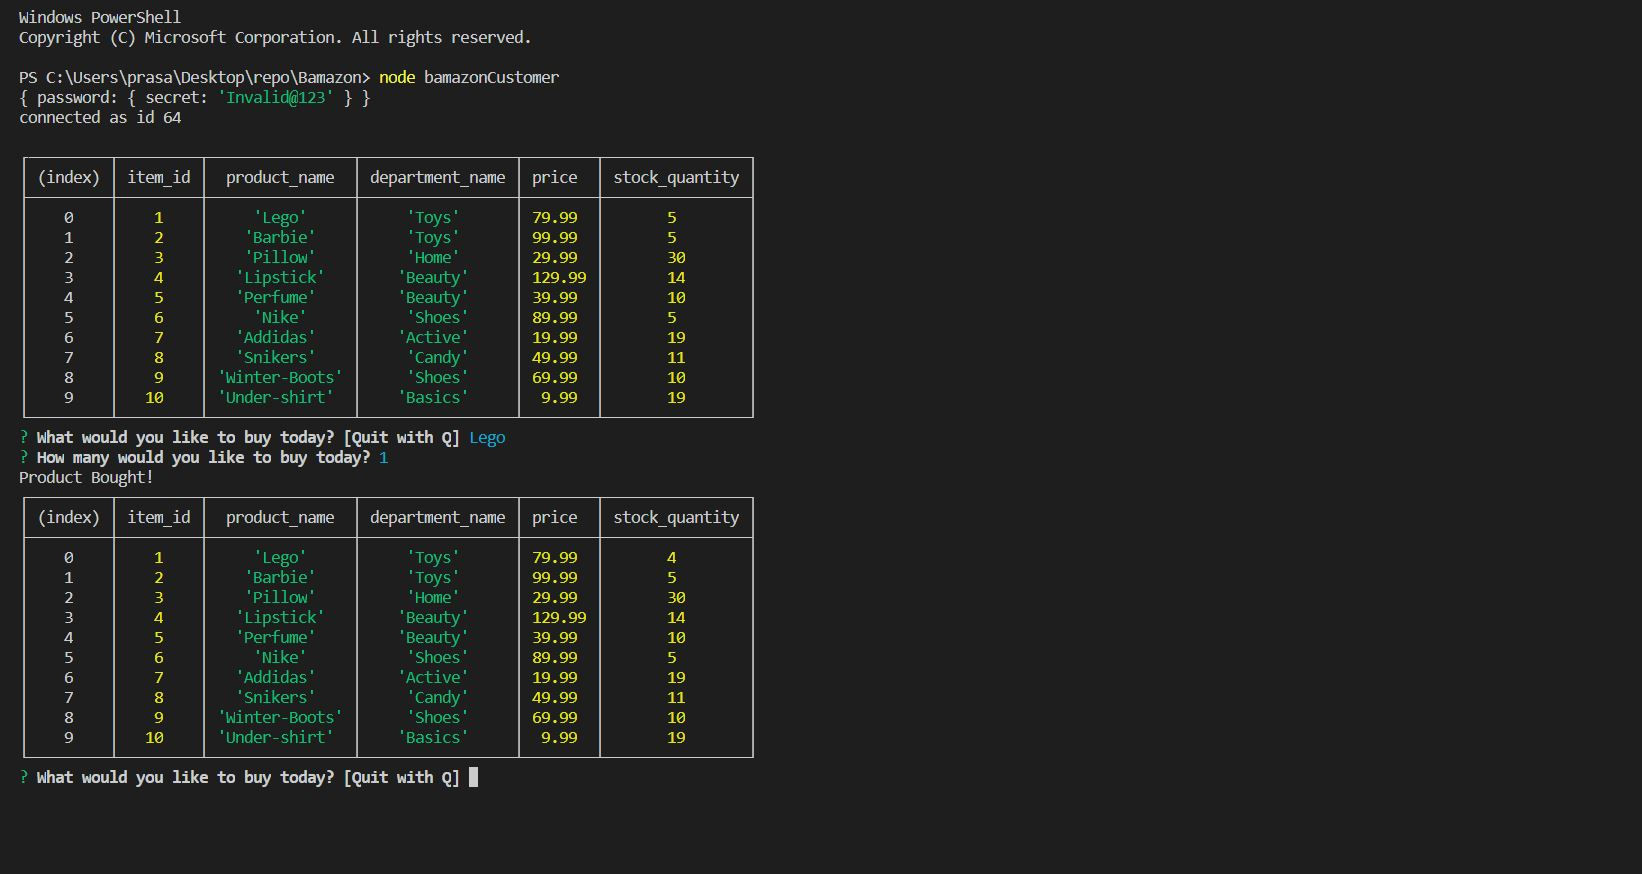
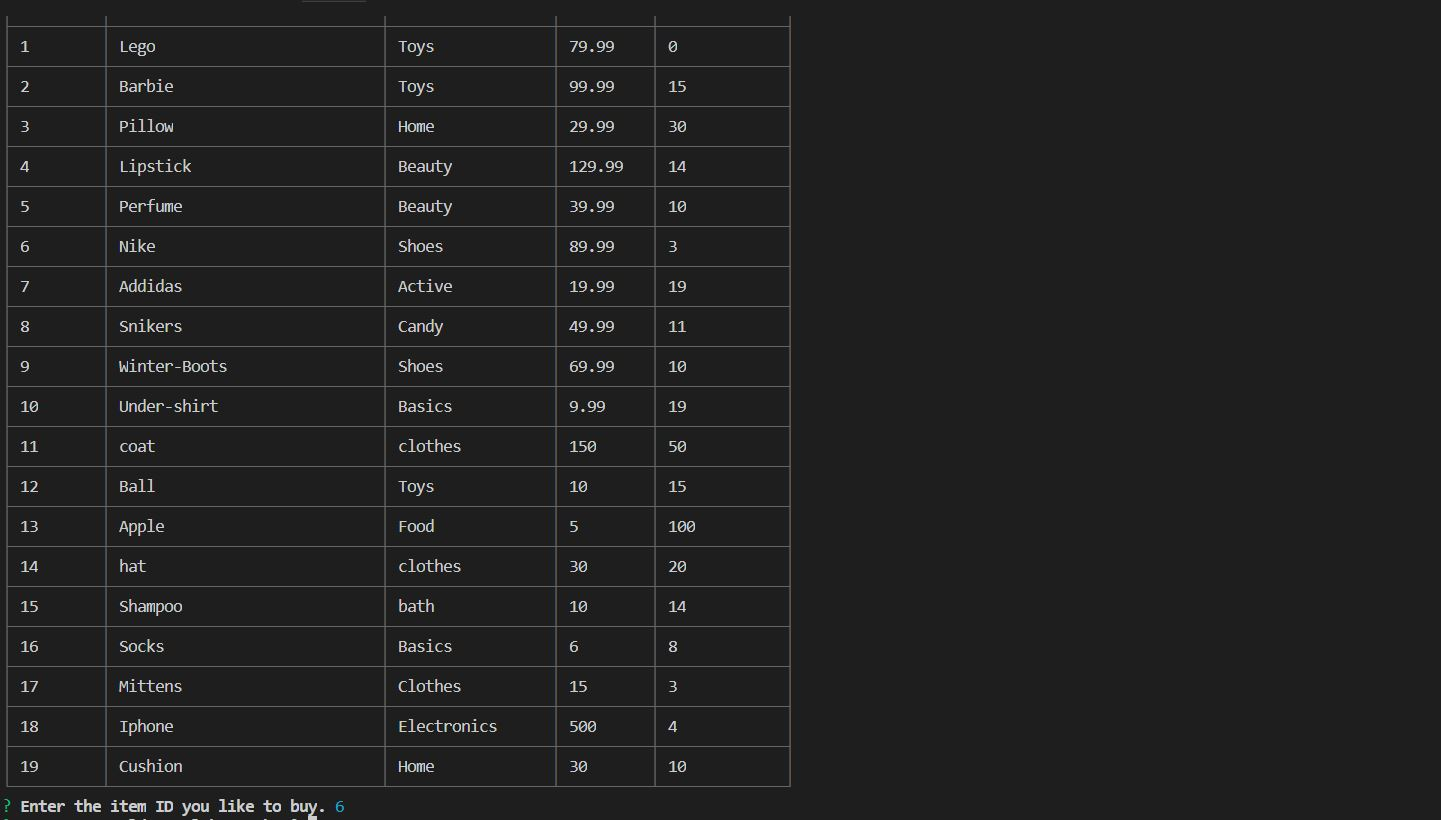
Updating bamazonCustomer.js and screenshots

Changed region(s): [[0.0, 0.0, 0.4997, 0.9451], [0.0, 0.9756, 0.2498, 1.0], [0.3747, 0.0305, 0.4684, 0.061]]

diff --git a/bamazonCustomer.js b/bamazonCustomer.js
@@ -1,105 +1,107 @@
-var mysql = require("mysql"); // pop quiz // schema // seeds sql required
+var mysql = require("mysql");
 var inquirer = require("inquirer");
-var keys = require("./keys.js");
-console.log(keys);
+// var keys = require("./keys.js");
+// console.log(keys);
+var table = require("cli-table");
 
 var connection = mysql.createConnection({
   host: "localhost",
-
-  // Your port; if not 3306
   port: 3306,
-
-  // Your username
   user: "root",
-
-  // Your password
-  password: keys.password.secret,
+  password: "Invalid@123",
   database: "bamazon_db"
 });
 
-connection.connect(function(err) {
-  if (err) throw err;
-  console.log("connected as id " + connection.threadId + "\n");
-  makeTable();
-});
+displayshoplist();
 
-var makeTable = function() {
-  connection.query("SELECT * FROM products", function(err, res) {
-    console.table(res);
-    // if (err) throw err;
-    // for (var i = 0; i < res.length; i++) {
-    //   console.log(
-    //     // res[i].item_id +
-    //     //   " ||" +
-    //     //   res[i].product_name +
-    //     //   " ||" +
-    //     //   res[i].department_name +
-    //     //   " ||" +
-    //     //   res[i].price +
-    //     //   " ||" +
-    //     //   res[i].stock_quantity +
-    //     //   "\n"
-    //   );
-    // }
-    promptCustomer(res);
+function displayshoplist() {
+  connection.query("SELECT * FROM products", function(error, response) {
+    if (error) throw error;
+    var displayTable = new table({
+      head: ["Item ID", "Product Name", "Department", "Price", "Stock"],
+      colWidths: [10, 30, 18, 10, 14]
+    });
+    for (i = 0; i < response.length; i++) {
+      displayTable.push([
+        response[i].item_id,
+        response[i].product_name,
+        response[i].department_name,
+        response[i].price,
+        response[i].stock_quantity
+      ]);
+    }
+    console.log(displayTable.toString());
+    promptCustomer();
   });
-};
-
-var promptCustomer = function(res) {
+}
+function promptCustomer() {
   inquirer
     .prompt([
       {
-        type: "input", // specific things , inquirer docs
-        name: "choice", // anything
-        message: "What would you like to buy today? [Quit with Q]"
+        name: "ID",
+        type: "input",
+        message: "Enter the item ID you like to buy."
+      },
+      {
+        name: "Quantity",
+        type: "input",
+        message: "How many would you like to buy?"
       }
     ])
+    .then(function(answers) {
+      var quantityWanted = answers.Quantity;
+      var idWanted = answers.ID;
+      purchaseShopList(idWanted, quantityWanted);
+    });
+}
+function purchaseShopList(ID, quantityNeeded) {
+  connection.query("SELECT * FROM products WHERE item_id = " + ID, function(
+    error,
+    response
+  ) {
+    if (error) throw error;
+    if (quantityNeeded <= response[0].stock_quantity) {
+      var totalCost = response[0].price * quantityNeeded;
+      console.log("Congratulations! your order is on the way!");
+      console.log(
+        "Your total cost for " +
+          quantityNeeded +
+          " " +
+          response[0].product_name +
+          " is " +
+          totalCost +
+          ". Thank you for shopping."
+      );
+      connection.query(
+        "UPDATE products SET stock_quantity = stock_quantity - " +
+          quantityNeeded +
+          " WHERE item_id = " +
+          ID
+      );
+    } else {
+      console.log(
+        "Sorry. We don't have enough " +
+          response[0].product_name +
+          " to fulfill your order."
+      );
+    }
+    repeat();
+  });
+}
+function repeat() {
+  inquirer
+    .prompt({
+      name: "shop",
+      type: "list",
+      choices: ["Yes", "No"],
+      message: "Would you like to continue shopping?"
+    })
     .then(function(answer) {
-      var correct = false;
-      if (answer.choice.toUpperCase() == "Q") {
-        process.exit();
-      }
-      for (var i = 0; i < res.length; i++) {
-        if (res[i].product_name === answer.choice) {
-          correct = true;
-          var product = answer.choice;
-          var id = i;
-          inquirer
-            .prompt({
-              type: "input", // specific things , inquirer docs
-              name: "quant", // anything
-              message: "How many would you like to buy today?",
-              validate: function(value) {
-                if (isNaN(value) == false) {
-                  return true;
-                } else {
-                  return false;
-                }
-              }
-            })
-            .then(function(answer) {
-              if (res[id].stock_quantity - answer.quant > 0) {
-                connection.query(
-                  "UPDATE products SET stock_quantity='" +
-                    (res[id].stock_quantity - answer.quant) +
-                    "' WHERE product_name='" +
-                    product +
-                    "'",
-                  function(err, res2) {
-                    console.log("Product Bought!");
-                    makeTable();
-                  }
-                );
-              } else {
-                console.log("NOT a valid Selection!");
-                promptCustomer(res);
-              }
-            });
-        }
-      }
-      if (i == res.length && correct == false) {
-        console.log("Not a valid selection!");
-        promptCustomer(res);
+      if (answer.shop == "Yes") {
+        displayshoplist();
+      } else {
+        console.log("Thank you!");
+        connection.end();
       }
     });
-};
+}

diff --git a/bamazonManager.js b/bamazonManager.js
@@ -1,13 +1,13 @@
 var mysql = require("mysql");
 var inquirer = require("inquirer");
-var keys = require("./keys.js");
-console.log(keys);
+// var keys = require("./keys.js");
+// console.log(keys);
 
 var connection = mysql.createConnection({
   host: "localhost",
   port: 3306,
   user: "root",
-  password: keys.password.secret,
+  password: "Invalid@123",
   database: "bamazon_db"
 });
 
